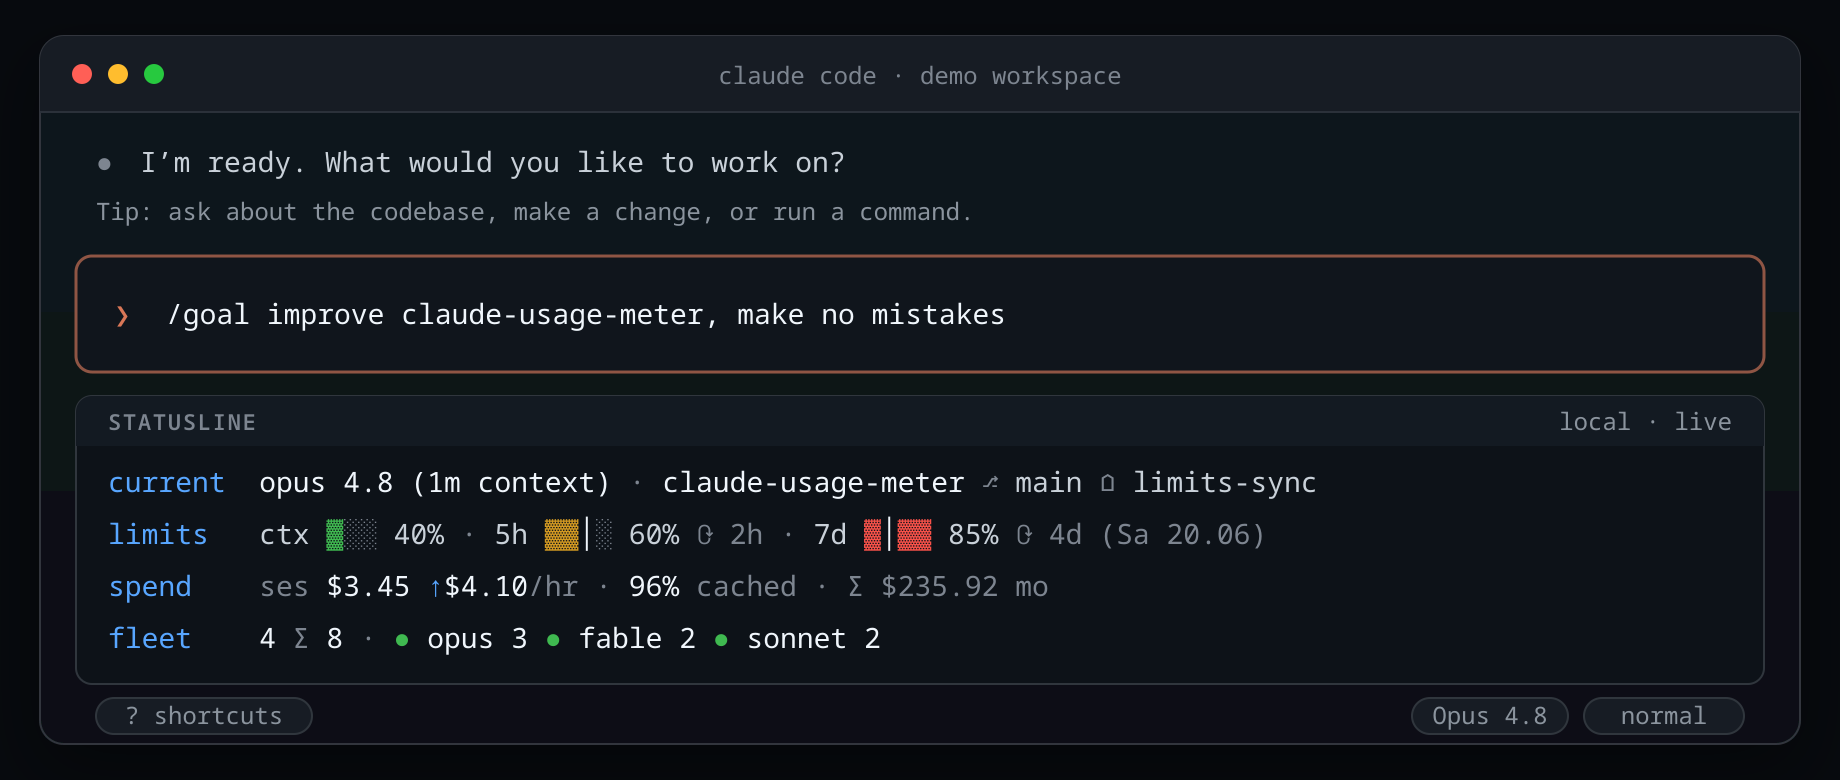
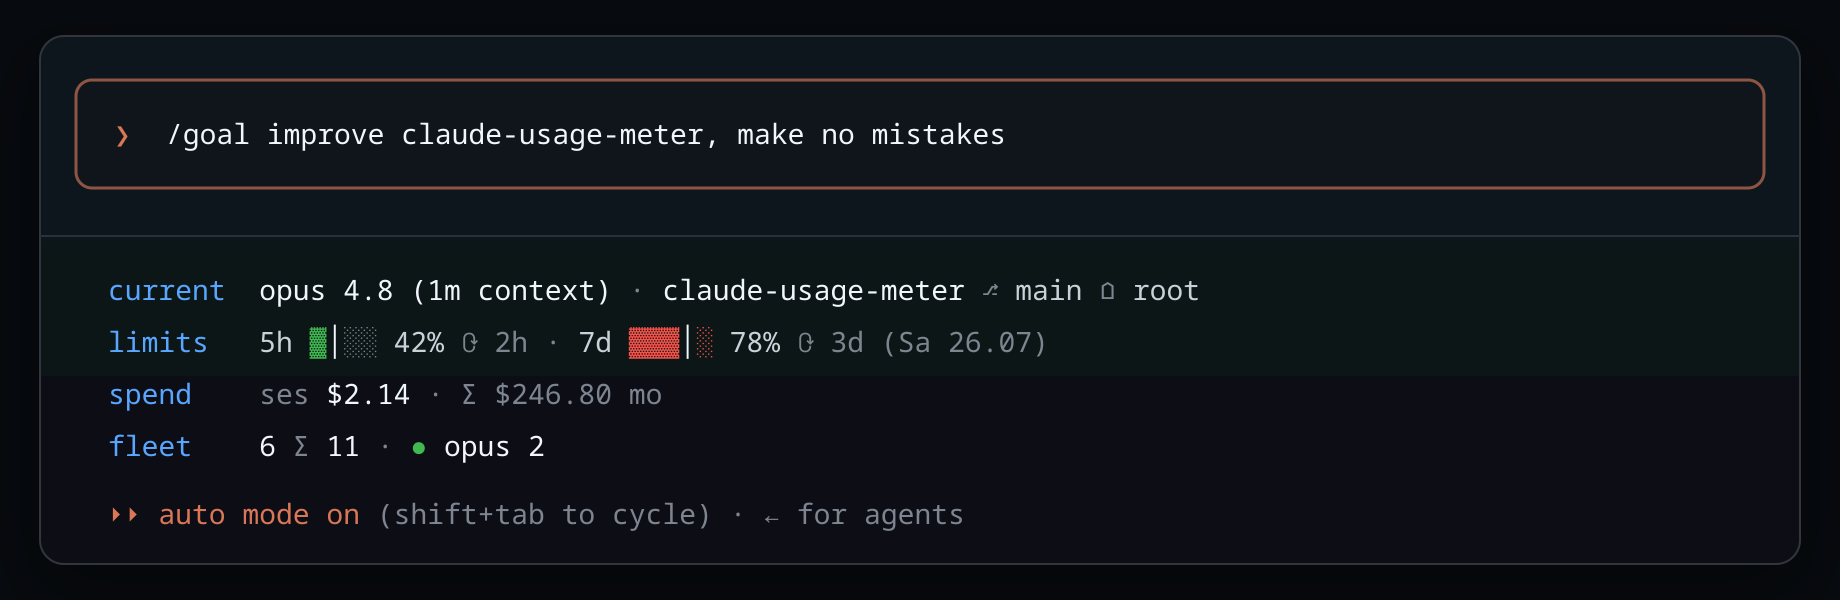
docs: refresh hero image to match the live statusline layout
Re-render the README hero (assets/statusline.svg + .png) to mirror the
actual statusline: drop the mockup-only chrome (title bar, greeting, tip,
STATUSLINE panel header, footer badges), keep the polished window/font/
colours, and show the real row shape (no ctx cell, simplified spend/fleet)
with synthetic illustrative values and an auto-mode footer. Update the
README alt text to match.

diff --git a/README.md b/README.md
@@ -18,7 +18,7 @@ locally, from:
 
 Nothing ever leaves your machine.
 
-![A Claude Code prompt containing the goal improve claude-usage-meter, make no mistakes, with a four-row statusline showing current, limits, spend and fleet data directly below it](assets/statusline.png)
+![A Claude Code prompt containing the goal improve claude-usage-meter, make no mistakes, with a four-row statusline showing current, limits, spend and fleet data directly below it, above an auto-mode footer](assets/statusline.png)
 
 The default look is a **four-row block**, each row a self-contained readout:
 